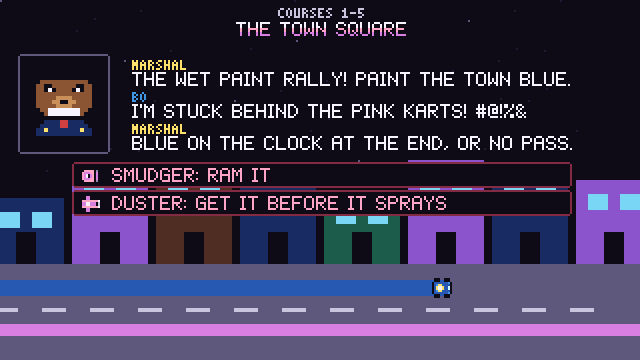
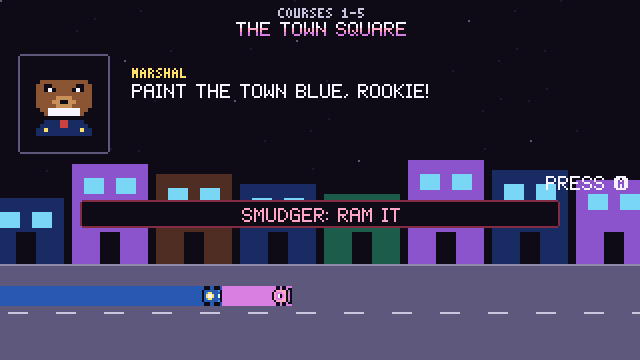
WET PAINT: doc, README and shots after the review fixes

Changed region(s): [[0.0938, 0.1528, 1.0, 0.6417], [0.0, 0.7333, 1.0, 0.9472]]

diff --git a/docs/games/04-wet-paint.md b/docs/games/04-wet-paint.md
@@ -11,19 +11,20 @@ text only: the community wiki, Steam guides and threads, and written reviews
 layouts or text were used as references.
 
 **Map type: fixed.** Paint Chase is 25 hand-made one-screen courses and a
-final showdown, so ours are too (`wetpaint_courses.c`, all our own layouts).
+final against the rival racer, so ours are too (`wetpaint_courses.c`, all our
+own layouts).
 Only the structure follows the original:
 
 | Full scale | Paint Chase | WET PAINT |
 |---|---|---|
-| Courses | 25, then the final showdown [W] | 25, then the final showdown (26 in all) |
+| Courses | 25, then a final against the rival [W] | 25, then the cup final (26 in all) |
 | Foe types | 9 plus the rival racer [W] | 9 plus Foxy Fuchsia |
 | Course elements | 7: spawners, boost tiles, toggle blocks and switch, conveyors, bumpers, spike walls, timed blocks [W] | the same 7 |
 | Power-ups | 4: paint gun, spike gun, drone, clock [W] | the same 4 |
 | Modes | 1 player, 2P versus [W] | 1 player, 2P versus |
-| Cutscenes | one introduces each group of courses [MG], [LZ], [EXP] | 6: before courses 1, 6, 11, 16, 21 and the final, plus the ending |
+| Cutscenes | Pac-Man-style interstitials that show what the new enemies do, one per group of courses [EXP], [MG], [LZ] | 6: before courses 1, 6, 11, 16, 21 and the final, each a line and an animated skit per new foe (10 skits), plus the ending |
 | New ideas | "you can barely go a level without them introducing a new concept" [EXP] | 16 of the 25 courses bring something new (below) |
-| Difficulty | easy first 15, a spike in the last 5 [PC], [MG] | the demo driver passes courses 1-4 nine times in ten, the last five about half the time |
+| Difficulty | easy first 15, a spike in the last 5 [PC], [MG]; 40+ points on the first courses [TIPS] | the demo driver passes courses 1-5 almost always (about 20 points each), the last five about half the time |
 | Length | about 20+ minutes a full game [PC] | 45 s a course (60 s the final), about 22 minutes with the screens between |
 | Goals | 3 [W] | the same 3 |
 | Secret | a message for parking in course 1's corner [MMSG] | our own message, same trigger |
@@ -70,17 +71,17 @@ Foxy.
 | Bollards | rise and sink on a steady beat; one rising under you stuns you | [W] | wp_13 |
 | Conveyor belts | faster along them, slower against | [W] | wp_13 |
 | Power-ups | yellow icons on the floor; used by driving on while the tile isn't blue, so a foe painting it makes it ready again | [W], [ST-PU], [ST-TIPS] | wp_14 |
-| Sprinkler | for a while shoots paint ahead, left and right; a shot colours the first tile that isn't blue | [W] | wp_14 |
+| Sprinkler | for a while shoots paint ahead, left and right; a shot paints the first tile it reaches, or the next one if that is blue, and goes no further | [W] | wp_14 |
 | Tack shooter | for a while shoots tacks ahead, left and right; they wreck foes | [W] | wp_14 |
 | Helper | a little car that drives round painting blue until a foe knocks it out; safe for a moment when it appears | [W] | wp_14 |
 | Freeze pop | stops the clock and every foe for 7.5 s | [W] | wp_14 |
 | The final | one course against Foxy, who drives, boosts and uses power-ups by your rules; a ram only stuns her for a moment | [W], [search summary] | wp_16 |
 | The end | a medal: gold, or platinum with 500 points | [W] | wp_16 |
-| Goals | Beacon: pass the first 12 courses; Saucer: pass all 25 and beat Foxy; Alien: win with 500 points | [W] | wp_16, wp_17 |
-| Score board | five best scores; a run is never saved half-way; the save also keeps the highest course reached and the lives left after a win (the original's two stats) | [W], [AR] | wp_17 |
+| Goals | Beacon: reach course 13; Saucer: beat all 25 and Foxy; Alien: win with 500 points (Paint Chase's gift, gold and cherry, in our words) | [W] | wp_16, wp_17 |
+| Score board | five best scores, filled in at first by the Beamdown staff (our own jokes); only a finished run goes on it, never one left half-way; the save also keeps the highest course reached and the lives left after a win (the original's two stats) | [W], [AR] | wp_17, wp_22 |
 | 2P versus | blue against pink, most paint wins | [W], [MP] | wp_18 |
-| The corner | park in course 1's bottom-right corner while the pink takes 80 % and the results screen has a message | [MMSG] | wp_19 |
-| Cutscenes | a scene opens each group of five courses and the final, and shows the new foes with a word on each | [MG], [LZ], [EXP] | wp_21 |
+| The corner | park in course 1's bottom-right corner and let the foes take the floor to 80 % pink (nearly always, in 25 to 45 s) and the results screen has a message | [MMSG] | wp_19 |
+| Cutscenes | a line from the Marshal (or Foxy), then a skit on a strip of road for each new foe that acts out its rule, with #@!% speech bubbles; A skips | [EXP], [MG], [LZ] | wp_21 |
 
 ### Readings we had to choose
 
@@ -90,22 +91,28 @@ Foxy.
   3 pixels a frame for one, two and three in a row. Foes go 7/16 of your
   speed (tankers and mother gloops twice that, poppers 5/16, conkers 3/8). A stun lasts
   54 frames, then 40 frames when nothing can hit you.
-- **Clocks and goals:** 45 s a course and 60 s for the final. Each course's
-  goal (42 % to 56 %) was set from the demo driver's results so that the
-  early courses are generous and the last five are a spike; the final asks
-  for 50 %.
+- **Clocks and goals:** 45 s a course and 60 s for the final. Courses 1-5
+  ask for 38-40 %, so a good route there scores 30-45 points (the demo
+  driver alone on course 1 clears its goal by 40). The later goals (38 % to
+  58 %) were set from the demo driver's results: it clears them by about 5
+  points in the middle courses and about 1 in the last five. A run the demo
+  driver passes throughout scores about 190, so 500 takes painting well
+  over a tenth more than it on every course. The final asks for 50 %.
+- **Course 1** has two garages, so foes left alone reach 80 % pink well
+  inside its clock.
 - **Lives:** three at the start, read from "fail 3 times and you start over".
 - **Garages:** the first load leaves after a second (the next garage ¾ s
   later), a garage flashes for a second, foes leave 0.4 s apart, and an
   empty garage rests 3 s before the next load. A mother gloop and her
   little one count as two of a load.
-- **How foes steer:** never straight back unless they must, and three times
-  in four towards a tile that isn't pink yet.
+- **How foes steer:** never straight back unless they must, three times in
+  four towards a tile that isn't pink yet, and when every way on is pink
+  already, three times in four towards the nearest patch that isn't.
 - **Timers:** a duster flies 10 s, then sprays four volleys over 2 s; a
   popper bursts 13 s after it leaves its garage, over every tile within
   about 4½ tiles; a mother gloop slows every 4 s.
 - **Power-ups:** the sprinkler and tack shooter last 5 s at five volleys a
-  second; the helper drives at ¾ your speed and lasts until knocked out or
+  second; a duster's spray follows the sprinkler's two-tile rule; the helper drives at ¾ your speed and lasts until knocked out or
   the course ends. Foxy's freeze pop freezes you.
 - **The lever** swings the barriers for whichever car drives over it; a
   barrier swinging shut on a car doesn't stun it (only bollards do).
@@ -136,8 +143,14 @@ Foxy.
   night and the final, each with its own walls; all 26 layouts.
 - **Music:** "Wet Paint" (title), "First Coat", "Second Coat", "Top Coat",
   "Showdown", "Intermission" and "Platinum", and the jingles.
-- **Words:** the cutscenes (with their #@!% swearing), the corner message
-  ("THE NIGHT PAINTER SAYS: NICE PARKING.") and the ending.
+- **Words:** the cutscenes and their ten skits (the stalled start, the
+  smudger rammed, the duster's spray, the tanker caught with a boost, the
+  mother gloop's babies, the popper's burst, the hedgehog head-on and from
+  the side, the conker's spines, the jelly spin-out, Foxy cutting in), all
+  with #@!% bubbles; the goal lines; the course names, "THE CUP FINAL"
+  among them; the corner message ("THE NIGHT PAINTER SAYS: NICE
+  PARKING."); the ending; the score board's staff (the Night Painter,
+  Beamdown QA, the Boss's Nephew, the Sound Dept and the Janitor).
 
 ## Additions: none
 
@@ -169,8 +182,10 @@ out.
 
 ## Tests
 
-`tests/wp_01` … `wp_21`, all driven by button presses or set up with
-cheats and then played. `wp_20_demo_run` is a demo driver (the `bot`
+`tests/wp_01` … `wp_23`, all driven by button presses or set up with
+cheats and then played. `wp_19` reaches the corner secret with real foes
+and the whole clock; `wp_22` checks that quitting mid-run posts nothing;
+`wp_23` checks what course 1 pays. `wp_20_demo_run` is a demo driver (the `bot`
 query in `wetpaint_logic.c`): from the title screen, with real presses,
 it skips the cutscene and passes the first three courses. It searches the
 lanes for the nearest tile that isn't blue, a power-up it can use or a foe
@@ -185,6 +200,7 @@ courses are sound.
   the timer and goal, points over the goal, 25 courses and the Pink Racer,
   every foe, course element and power-up, the goals, the medal, the meta
   message. https://ufo50.miraheze.org/wiki/Paint_Chase
+- [TIPS] Steam thread "any tips for paint chase cherry?" (also [ST-TIPS]): "a solid 40+ on the first two levels".
 - [MMSG] Miraheze, "Meta Messages": park in course 1's bottom-right corner
   until the enemy reaches 80 %. https://ufo50.miraheze.org/wiki/Meta_Messages
 - [MP] Miraheze, "Multiplayer"; [AR] "Arcade" (a high-score sheet).

diff --git a/README.md b/README.md
@@ -207,7 +207,7 @@ the top.
 </p>
 <p align="center">
   <img src="docs/shots/wetpaint_night.png" width="320" alt="Course 22 by night: jellies, conkers and thorn hedges">
-  <img src="docs/shots/wetpaint_final.png" width="320" alt="The final showdown against Foxy Fuchsia">
+  <img src="docs/shots/wetpaint_final.png" width="320" alt="The cup final against Foxy Fuchsia">
 </p>
 
 - **Plays like Paint Chase:** only the d-pad. Bo's kart never stops: it
@@ -225,9 +225,12 @@ the top.
   (they stack), bumpers, thorn hedges, swing barriers, bollards and belts,
   and four power-ups that work while their tile isn't blue: the sprinkler,
   the tack shooter, the helper and the freeze pop.
-- **Structure:** 25 courses in one go, a cutscene before each five, then the
-  final against Foxy Fuchsia, who drives by your rules. 2P versus on any
-  course. A demo driver in the tests plays the first courses with real
+- **Structure:** 25 courses in one go, then the cup final against Foxy
+  Fuchsia, who drives by your rules. Before each five, a cutscene acts out
+  what every new foe does in a little skit on the road. The early courses
+  pay well; 500 points is a real stretch. The score board starts out filled
+  in by the Beamdown staff, and only a finished run goes on it. 2P versus on
+  any course. A demo driver in the tests plays the first courses with real
   button presses.
 - **Ours:** Bo, Foxy and the Marshal, the town square, park, docks, works
   and night streets, all 26 courses, every foe and power-up, and the music.
